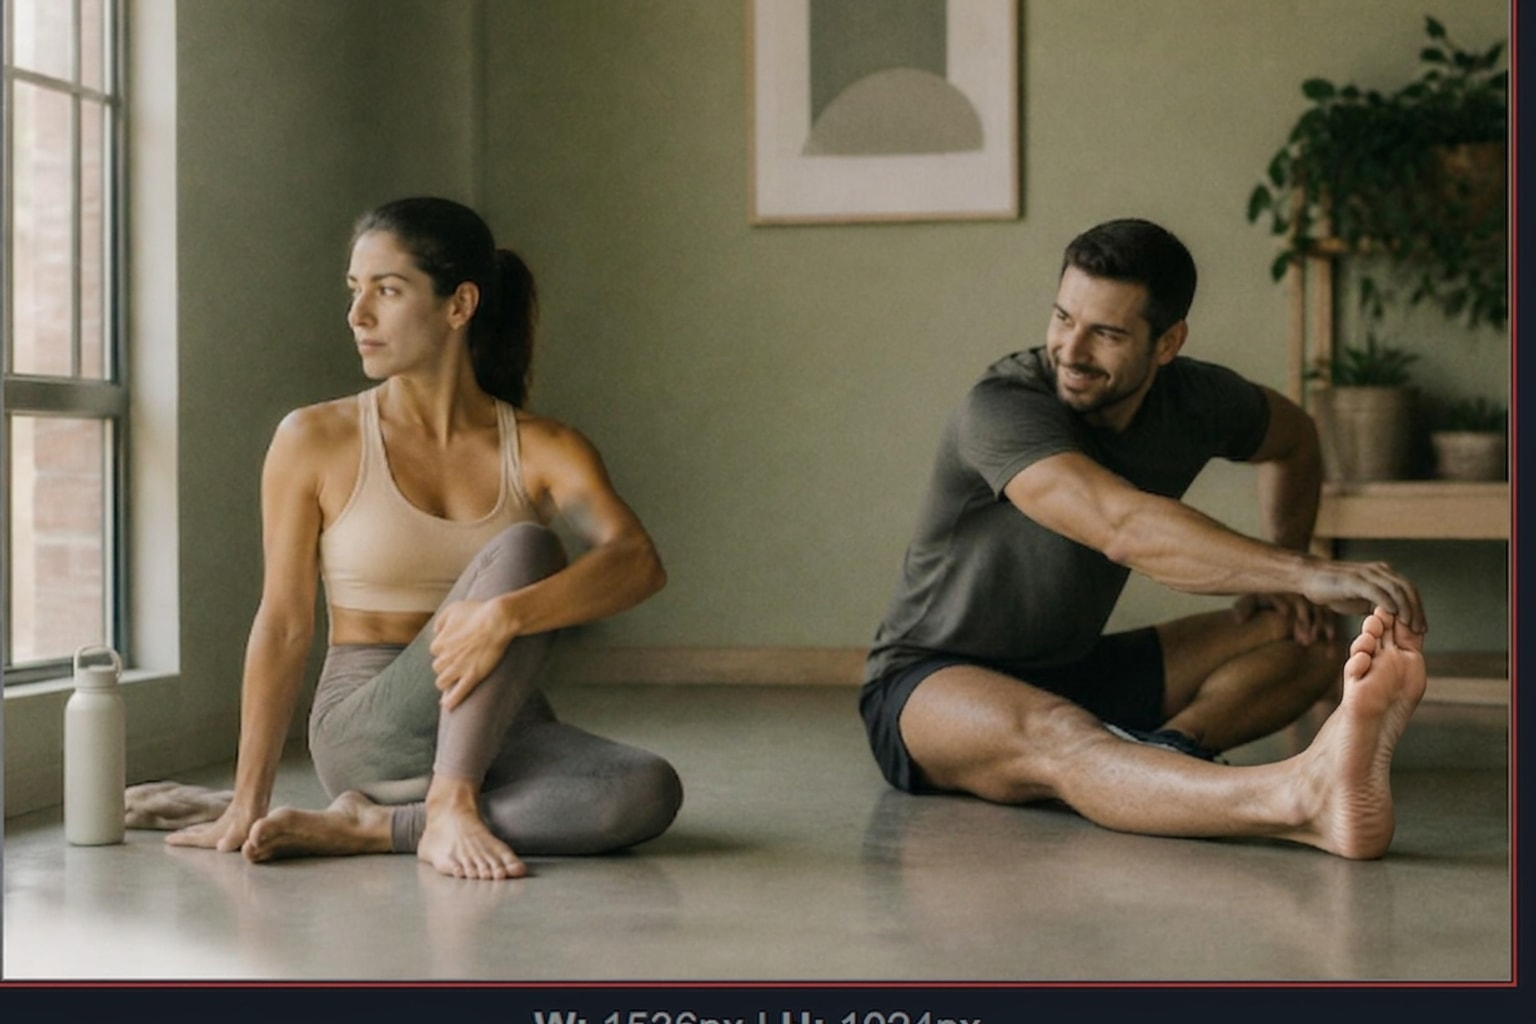
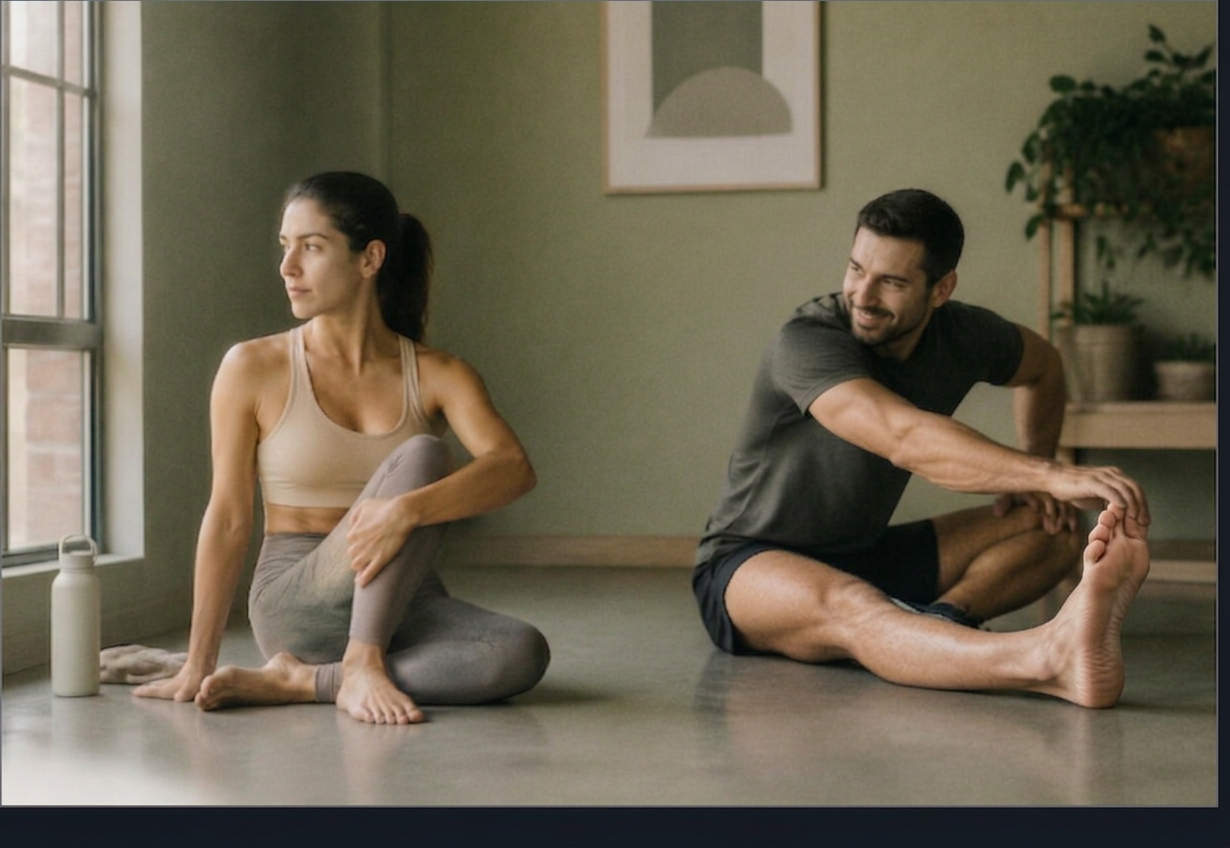
Fix CTA stretch image sizing across breakpoints.
Use the new photo at its native aspect ratio with responsive sizes so subjects stay framed on phones, tablets, and desktop.

diff --git a/src/components/CTASection.tsx b/src/components/CTASection.tsx
@@ -57,15 +57,15 @@ export default function CTASection({
             <p className="mt-6 text-xs text-sage">{footerNote}</p>
           )}
         </div>
-        <div className="md:col-span-5">
-          <div className="relative aspect-[3/2] overflow-hidden rounded-3xl bg-surface">
+        <div className="w-full md:col-span-5">
+          <div className="relative mx-auto aspect-[1230/848] w-full max-w-xl overflow-hidden rounded-3xl bg-surface md:max-w-none">
             <Image
               src={sectionAssets.ctaStretch}
               alt="A man and a woman stretching together in a sunlit sage-toned studio"
               fill
-              sizes="(max-width: 768px) 100vw, 40vw"
-              quality={72}
-              className="object-cover object-center"
+              sizes="(max-width: 640px) 100vw, (max-width: 768px) 90vw, (max-width: 1024px) 45vw, 40vw"
+              quality={75}
+              className="object-cover object-[50%_58%] sm:object-[50%_52%] md:object-center"
             />
           </div>
         </div>

diff --git a/src/lib/media.ts b/src/lib/media.ts
@@ -28,7 +28,7 @@ export const sectionAssets = {
   tassoBloodTest: local("/assets/diagnostics/tasso-blood-test.webp"),
   philosophy: local("/assets/philosophy/philosophy.webp"),
   longevity: local("/assets/philosophy/longevity.webp"),
-  ctaStretch: local("/assets/cta/cta-stretch.webp"),
+  ctaStretch: local("/assets/cta/cta-stretch.jpg"),
   clinic: local("/assets/pages/clinic.webp"),
   couple: local("/assets/pages/couple.webp"),
 } as const;
